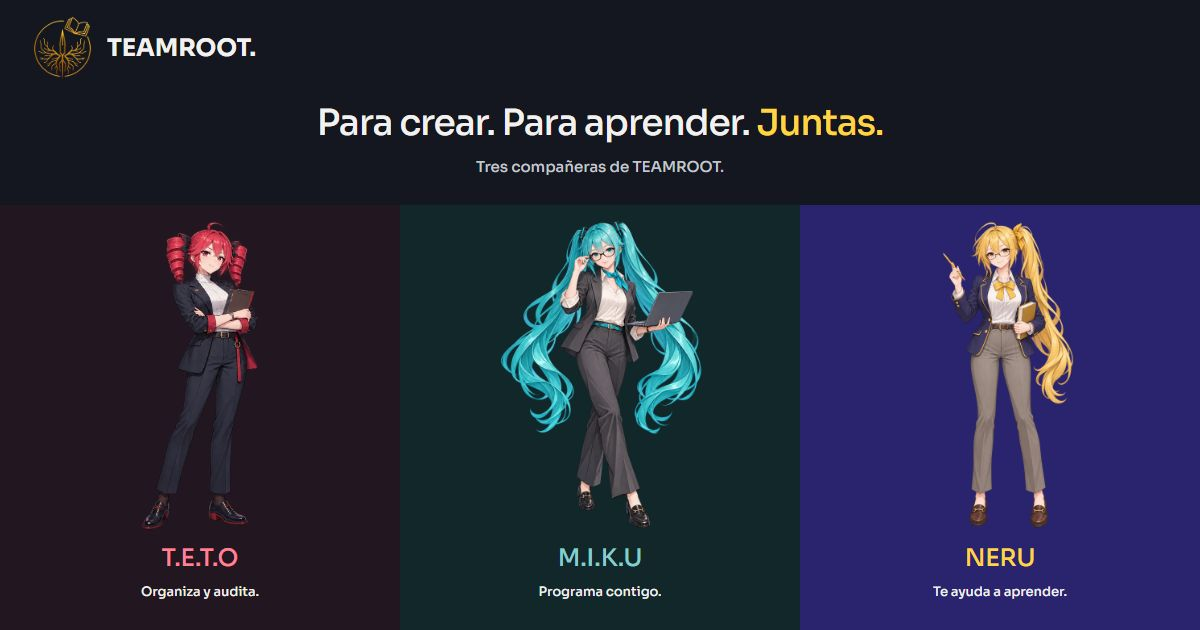
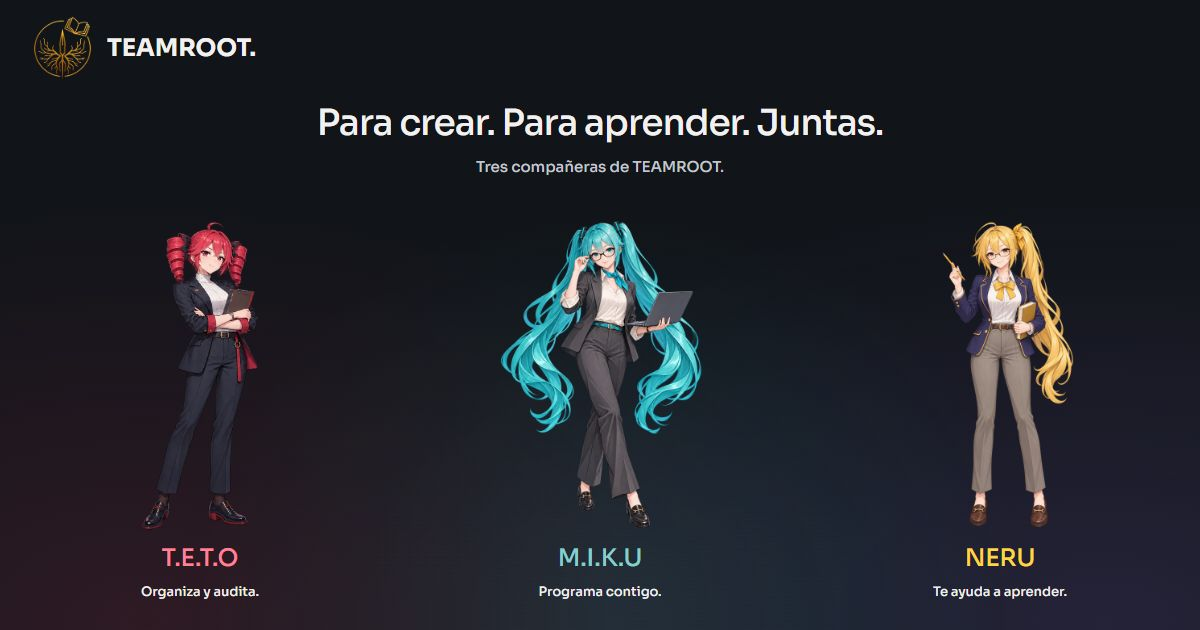
feat: refine shared color field and character presentation

Changed region(s): [[0.6475, 0.3016, 1.0, 1.0], [0.6167, 0.1508, 0.74, 0.2413], [0.4933, 0.8746, 0.5242, 0.9048]]

diff --git a/style.css b/style.css
@@ -52,3 +52,23 @@
 @media(prefers-reduced-motion:reduce){.team-member:hover .team-portrait img{scale:1}}
 
 .team-introduction h1>span,.team-introduction h1>em{display:inline-block}
+
+/* A continuous color field keeps the three identities in one shared space. */
+.home{background:radial-gradient(ellipse at 12% 80%,#7b2b4145,transparent 48%),radial-gradient(ellipse at 51% 80%,#206e7040,transparent 48%),radial-gradient(ellipse at 92% 80%,#5b4a8a45,transparent 48%),#111419}
+.team-gallery{max-width:1560px;margin:0 auto;padding:0 3% 24px;gap:2%}
+.team-member,.member-miku,.member-neru{background:transparent;overflow:visible;padding-top:14px}
+.team-member::before{content:'';position:absolute;inset:0 -15%;background:radial-gradient(ellipse at center 48%,var(--member-color),transparent 68%);opacity:0;z-index:-1;transition:opacity 450ms var(--ease);pointer-events:none}
+.team-member:is(:hover,:focus-visible)::before{opacity:.09}
+.team-introduction{padding-top:64px;padding-bottom:25px}.team-introduction h1{font-size:clamp(32px,3.6vw,58px);font-weight:600;letter-spacing:-.04em}.team-introduction h1 em{color:var(--text)}
+.team-introduction>p{margin-top:22px;font-size:16px;line-height:1.75}
+.team-introduction .team-voices{display:grid;min-height:48px;max-width:550px;margin:22px auto 0;font-size:14px;line-height:1.6;align-items:center}
+.team-voices>span{grid-area:1/1;transition:opacity 200ms var(--ease);padding:0 8px}
+.team-voice-default{color:var(--muted)}.team-voice-teto,.team-voice-miku,.team-voice-neru{opacity:0}.team-voice-teto{color:#ffb5c4}.team-voice-miku{color:#b7e7e4}.team-voice-neru{color:var(--neru)}
+.home:has(.team-member:is(:hover,:focus-visible)) .team-voice-default{opacity:0}
+.home:has(.member-teto:is(:hover,:focus-visible)) .team-voice-teto,.home:has(.member-miku:is(:hover,:focus-visible)) .team-voice-miku,.home:has(.member-neru:is(:hover,:focus-visible)) .team-voice-neru{opacity:1}
+.team-caption{border-top:0;margin-top:12px;padding-top:12px}.team-caption h2{font-size:clamp(20px,2.2vw,32px)}.team-caption>span{color:var(--muted);margin-top:10px}.team-member:hover .team-caption>span{color:var(--member-color)}
+.detail-copy{padding-top:56px;padding-bottom:90px}.detail .capability{padding-top:30px;margin-top:30px}.detail .capability h2{font-size:21px;letter-spacing:-.02em}.detail .capability p{font-size:15px;line-height:1.8}.detail .work-example{margin-top:64px;padding-top:40px}.detail .work-example>h2{font-size:clamp(24px,2.6vw,34px);letter-spacing:-.03em}
+@media(min-width:901px){.detail-art{position:sticky;top:30px;height:calc(100svh - 60px);align-self:start}.detail-art img{top:50%;height:min(70svh,700px);transform:translate(-14.38%,-50%)}.miku-detail .detail-art .office-art,.neru-detail .detail-art .teacher-art{top:50%;height:min(70svh,700px);transform:translate(-50%,-50%)}.detail-art>span{font-size:clamp(50px,6vw,100px);bottom:10px}}
+@media(max-width:650px){.team-introduction{padding:34px 16px 12px}.team-introduction h1{font-size:clamp(29px,7vw,42px)}.team-introduction>p{font-size:14px;margin-top:18px}.team-introduction .team-voices{font-size:12px;margin-top:15px;min-height:57px;max-width:340px}.team-gallery{padding:0 0 15px;gap:0}.team-member{padding:12px 7px 16px}.team-caption h2{font-size:clamp(14px,3.5vw,22px)}.team-caption p{font-size:12px}.team-caption>span{font-size:12px}.detail-copy{padding-top:24px;padding-bottom:50px}.detail .capability h2{font-size:20px}.detail .capability p{font-size:15px}.detail .work-example{margin-top:44px;padding-top:30px}}
+@supports(animation-timeline:view()){ @media(prefers-reduced-motion:no-preference){.detail .work-example{animation:example-focus linear both;animation-timeline:view();animation-range:entry 0% entry 45%}@keyframes example-focus{from{opacity:.6;translate:0 20px}to{opacity:1;translate:0 0}}}}
+@media(prefers-reduced-motion:reduce){.team-member::before,.team-voices>span{transition:none}.detail .work-example{animation:none}}

diff --git a/index.html b/index.html
@@ -12,14 +12,14 @@
   <meta property="og:title" content="TEAMROOT — T.E.T.O, M.I.K.U y NERU">
   <meta property="og:description" content="Tú creas. T.E.T.O organiza. M.I.K.U programa. NERU acompaña el aprendizaje escolar. Proyectos en desarrollo.">
   <meta property="og:url" content="https://angry6irds.github.io/teamroot-web/">
-  <meta property="og:image" content="https://angry6irds.github.io/teamroot-web/assets/social-preview.png?v=7">
+  <meta property="og:image" content="https://angry6irds.github.io/teamroot-web/assets/social-preview.png?v=8">
   <meta property="og:image:width" content="1200"><meta property="og:image:height" content="630">
   <meta property="og:image:alt" content="TEAMROOT: T.E.T.O, M.I.K.U y NERU, para crear y aprender">
   <meta name="twitter:card" content="summary_large_image">
   <meta name="twitter:title" content="TEAMROOT — T.E.T.O, M.I.K.U y NERU">
   <meta name="twitter:description" content="T.E.T.O organiza. M.I.K.U programa. NERU acompaña el aprendizaje escolar.">
-  <meta name="twitter:image" content="https://angry6irds.github.io/teamroot-web/assets/social-preview.png?v=7">
-  <link rel="stylesheet" href="style.css?v=10">
+  <meta name="twitter:image" content="https://angry6irds.github.io/teamroot-web/assets/social-preview.png?v=8">
+  <link rel="stylesheet" href="style.css?v=11">
 </head>
 <body>
   <header class="header">
@@ -55,7 +55,7 @@
         <div class="team-introduction">
           <h1 id="home-title" tabindex="-1"><span>Para crear.</span> <span>Para aprender.</span> <em>Juntas.</em></h1>
           <p>Tres compañeras de TEAMROOT.<br>Supervisión técnica, programación y aprendizaje escolar.</p>
-          <p class="team-invitation">Elige a quién quieres conocer.</p>
+          <div class="team-invitation team-voices" aria-hidden="true"><span class="team-voice-default">Elige a quién quieres conocer.</span><span class="team-voice-teto">«Primero, vamos a revisar ese cambio.»</span><span class="team-voice-miku">«A ver esa idea. La construimos juntos.»</span><span class="team-voice-neru">«Vamos paso a paso. Preguntar también es aprender.»</span></div>
         </div>
         <div class="team-gallery">
           <a href="#teto" class="team-member member-teto" aria-label="Conoce a T.E.T.O, gestión y seguimiento">
